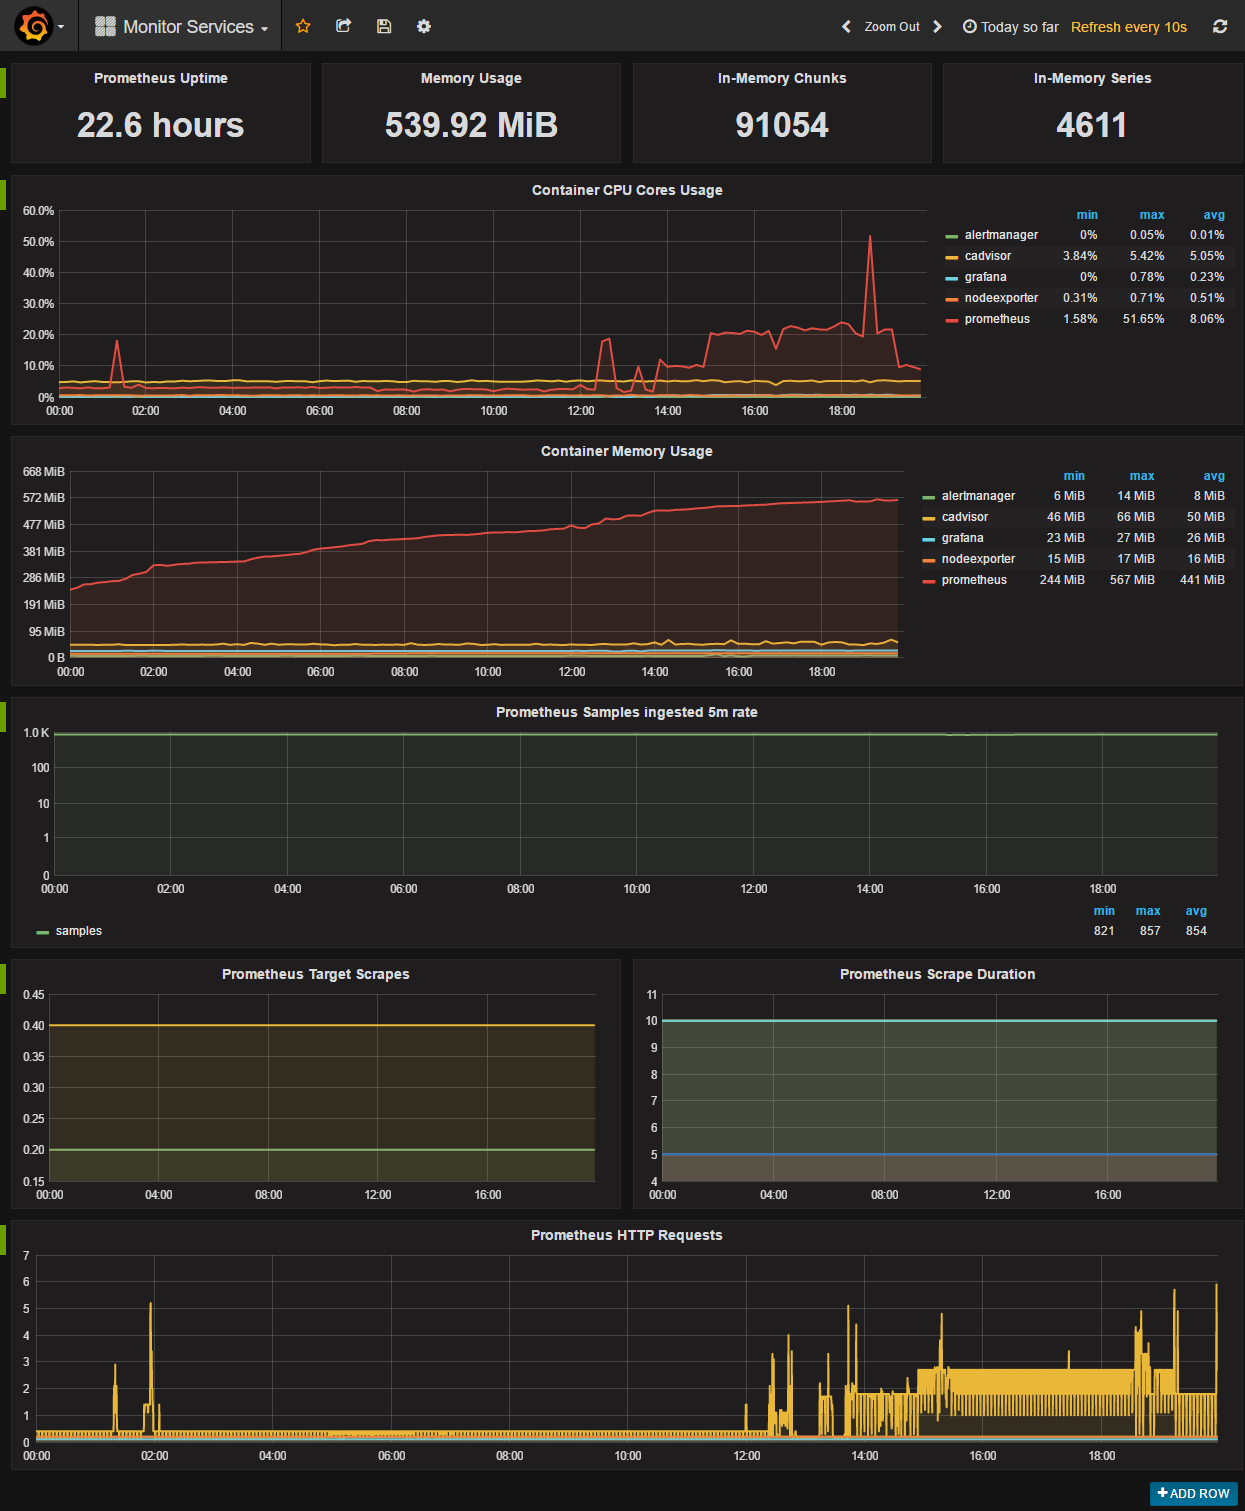
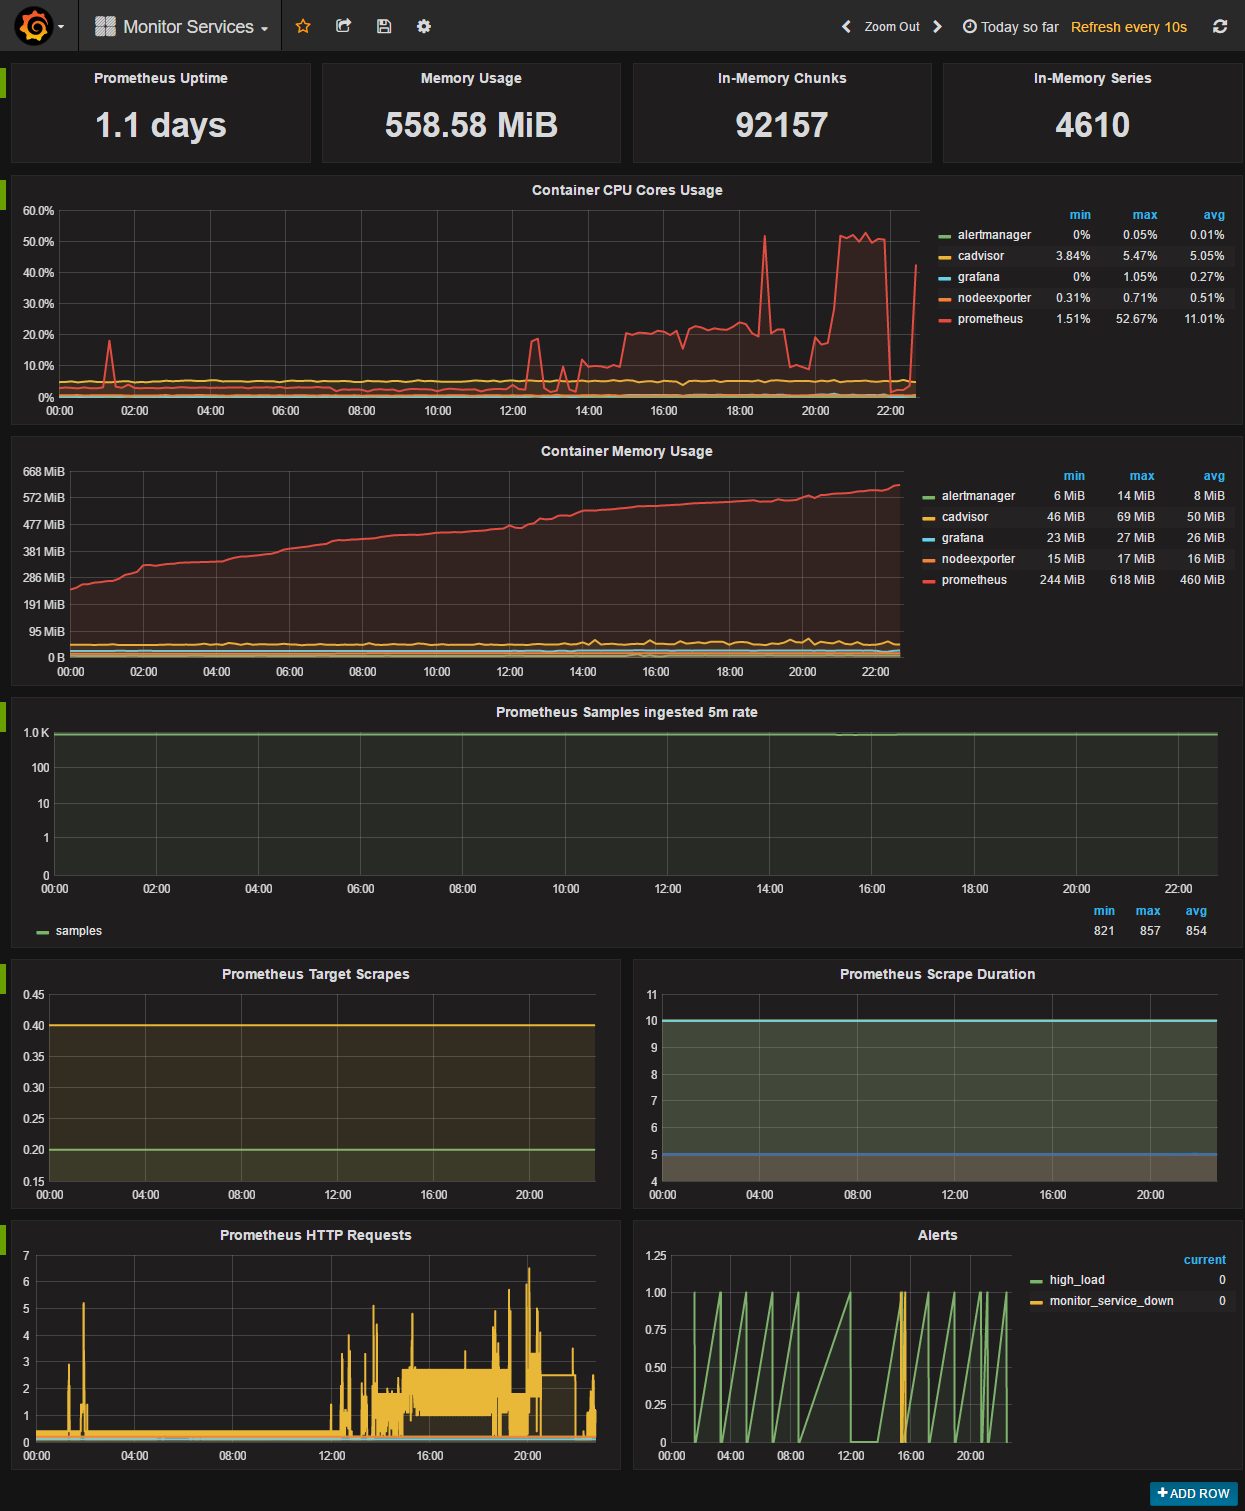
added alerts graph

diff --git a/README.md b/README.md
@@ -80,7 +80,8 @@ The Monitor Services Dashboard shows key metrics for monitoring the containers t
 * Prometheus samples ingested rate graph
 * Prometheus target scrapes graph
 * Prometheus scrape duration graph
-* Prometheus targets HTTP requests graph
+* Prometheus HTTP requests graph
+* Prometheus alerts graph
 
 The Prometheus memory usage can be controlled by tunning the local storage memory chunks. 
 You can modify the max chunks value in [docker-compose.yml](https://github.com/stefanprodan/dockerprom/blob/master/docker-compose.yml). 
@@ -192,7 +193,8 @@ ALERT jenkins_high_memory
 ## Setup alerting
 
 The AlertManager service is responsible for handling alerts sent by Prometheus server. 
-AlertManager can send notifications via email, PagerDuty, Slack, HipChat or any other system that exposes a webhook interface.
+AlertManager can send notifications via email, Pushover, Slack, HipChat or any other system that exposes a webhook interface. 
+A compleat list of integrations can be found [here](https://prometheus.io/docs/alerting/configuration).
 
 You can view and silence notifications by accessing `http://<host-ip>:9093`.
 
